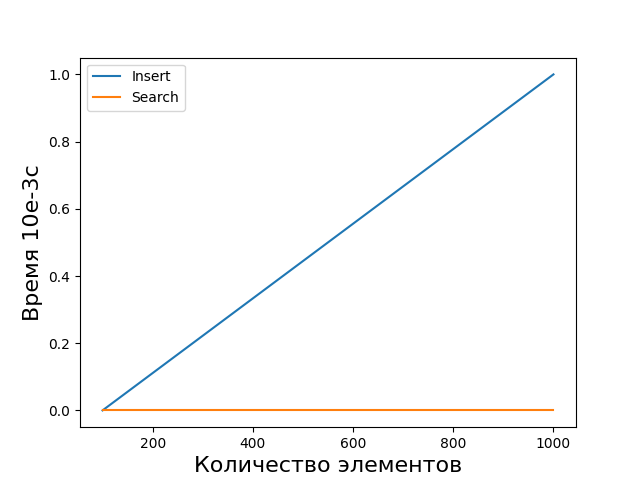
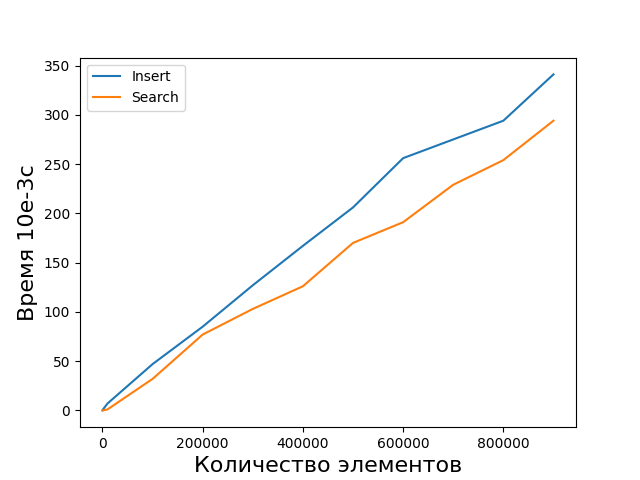
[LockFreeSkipList] Lock-Free write implemented

diff --git a/PrimaEst/Storage/Skiplist/LockFreeSkipList.c b/PrimaEst/Storage/Skiplist/LockFreeSkipList.c
@@ -7,17 +7,17 @@
 
 #include "../../global.h"
 
-/**
- * Создать узел списка с пропусками
- * @param[in] dwHeight	Высота
- * @param[in] pKey		Ключ
- * @param[in] pValue	Значение
- * @return				Узел
- */
+ /**
+  * Создать узел списка с пропусками
+  * @param[in] dwHeight	Высота
+  * @param[in] pKey		Ключ
+  * @param[in] pValue	Значение
+  * @return				Узел
+  */
 PSLockFreeSkipListNode
 CreateLockFreeSkipListNode(
 	DWORD		dwHeight,
-	LONG64		pKey,
+	PVOID		pKey,
 	PVOID	    pValue
 );
 
@@ -106,7 +106,7 @@ LockFreeSkipListSet(
 	PVOID				pValue
 )
 {
-	DWORD dwRndHeight = RandomHeight1();
+	DWORD dwRndHeight = RandomHeight();
 
 	PSLockFreeSkipListNode psPredecessors[SKIP_LIST_MAX_HEIGHT];
 	PSLockFreeSkipListNode psSuccessors[SKIP_LIST_MAX_HEIGHT];
@@ -132,10 +132,10 @@ LockFreeSkipListSet(
 			psNode->pNext[dwLevel] = *psSuccessors;
 		}
 
-		if (!InterlockedCompareExchangePointer(
+		if (InterlockedCompareExchangePointer(
 			&(*psPredecessors)->pNext[0],
 			psNode, *psSuccessors
-		))
+		) != *psSuccessors)
 		{
 			free(psNode);
 			continue;
@@ -145,17 +145,17 @@ LockFreeSkipListSet(
 		{
 			while (TRUE)
 			{
-				PSLockFreeSkipListNode psSuccesseor = psSuccessors[dwLevel];
+				PSLockFreeSkipListNode psSuccessor = psSuccessors[dwLevel];
 				PSLockFreeSkipListNode psPredecessor = psPredecessors[dwLevel];
 
-				if (psSuccesseor != psNode->pNext[dwLevel])
+				if (psSuccessor != psNode->pNext[dwLevel])
 				{
-					PSLockFreeSkipListNode psCurrentSuccesseor = psNode->pNext[dwLevel];
+					PSLockFreeSkipListNode psCurrentSuccessor = psNode->pNext[dwLevel];
 
-					if (!InterlockedCompareExchangePointer(
+					if (InterlockedCompareExchangePointer(
 						&psNode->pNext[dwLevel],
-						psSuccesseor, psCurrentSuccesseor
-						))
+						psSuccessor, psCurrentSuccessor
+						) != psCurrentSuccessor)
 					{
 						continue;
 					}
@@ -163,8 +163,8 @@ LockFreeSkipListSet(
 
 				if (InterlockedCompareExchangePointer(
 					&psPredecessor->pNext[dwLevel],
-					psNode, psSuccessors
-					))
+					psNode, psSuccessor
+					) == psSuccessor)
 				{
 					break;
 				}
@@ -186,14 +186,14 @@ LockFreeSkipListSet(
  * @param[in] pKey		Ключ
  * @return Найденный узел
  */
-PSLockFreeSkipListNode
+BOOL
 LockFreeSkipListFind(
 	PSLockFreeSkipList	psSkipList,
 	PVOID				pKey
 )
 {
-	PSLockFreeSkipListNode psNode = psSkipList->psHead;
 	DWORD dwHeight = SKIP_LIST_MAX_HEIGHT - 1;
+	PSLockFreeSkipListNode psNode = psSkipList->psHead;
 
 	while (TRUE)
 	{
@@ -211,15 +211,14 @@ LockFreeSkipListFind(
 		{
 			if (dwHeight == 0)
 			{
-				return !nCompare ?
-					psNextNode : NULL;
+				return !nCompare ? TRUE : FALSE;
 			}
 
 			dwHeight--;
 		}
 	}
 
-	return NULL;
+	return FALSE;
 }
 
 /**
@@ -270,7 +269,7 @@ CreateLockFreeSkipListNode(
 	PVOID	    pValue)
 {
 	DWORD dwSize = sizeof(SLockFreeSkipListNode) + 
-		(dwHeight - 1) * sizeof(PSLockFreeSkipListNode);
+		(dwHeight) * sizeof(PSLockFreeSkipListNode);
 	PSLockFreeSkipListNode psSkipListNode = (PSLockFreeSkipListNode)malloc(dwSize);
 	if (psSkipListNode == NULL)
 	{
@@ -340,4 +339,26 @@ InternalLockFreeSkipListFind(
 	*psFoundNode = psCurrentNode;
 
 	return pCurrentKey == pKey;
+}
+
+/**
+ * Вывод списка
+ * @param[in] psSkipList Экземпляр списка
+ */
+VOID
+LockFreeSkipListPrint(
+	PSLockFreeSkipList	psSkipList
+)
+{
+	for (INT dwHeight = SKIP_LIST_MAX_HEIGHT - 1; dwHeight >= 0; dwHeight--)
+	{
+		PSLockFreeSkipListNode psNode = psSkipList->psHead;
+		while (psNode != psSkipList->psTail)
+		{
+			printf("%lld ", (LONG64)psNode->pKey);
+
+			psNode = psNode->pNext[dwHeight];
+		}
+		printf("\n");
+	}
 }

diff --git a/PrimaEst/Storage/Skiplist/LockFreeSkipList.h b/PrimaEst/Storage/Skiplist/LockFreeSkipList.h
@@ -25,7 +25,7 @@ typedef struct _SLockFreeSkipListNode
 	DWORD				dwHeight;
 
 	/** Список узлов */
-	struct _SLockFreeSkipListNode* pNext[1];
+	struct _SLockFreeSkipListNode* pNext[];
 } SLockFreeSkipListNode, * PSLockFreeSkipListNode;
 
 /**
@@ -84,9 +84,9 @@ LockFreeSkipListSet(
  * Найти ключ в списке
  * @param[in] psSkipList	Экземпляр списка
  * @param[in] pKey		Ключ
- * @return Найденный узел
+ * @return Есть ли элемент по ключу ?
  */
-PSLockFreeSkipListNode
+BOOL
 LockFreeSkipListFind(
 	PSLockFreeSkipList	psSkipList,
 	PVOID				pKey
@@ -101,6 +101,7 @@ LockFreeSkipListClear(
 	PSLockFreeSkipList	psSkipList
 );
 
+
 /**
  * Освободить все ресурсы занятые структурой
  * @param[in] psSkipList Экземпляр списка
@@ -111,5 +112,13 @@ LockFreeSkipListClose(
 );
 
 
+/**
+ * Вывод списка
+ * @param[in] psSkipList Экземпляр списка
+ */
+VOID
+LockFreeSkipListPrint(
+	PSLockFreeSkipList	psSkipList
+);
 
 #endif

diff --git a/PrimaEst/Test/LockFreeSkipListTest.c b/PrimaEst/Test/LockFreeSkipListTest.c
@@ -42,14 +42,13 @@ LockFreeSkipListAddTest()
 	
 	assert(psLockFree != NULL);
 
-	for (int i = 1; i <= 10; i++)
+	for (int i = 1; i <= 100; i++)
 	{
 		LockFreeSkipListSet(psLockFree, (void*)i, (void*)i);
 	}
 	
 	PSLockFreeSkipListNode psCurr = psLockFree->psHead->pNext[0];
-	PSLockFreeSkipListNode psNext;
-	for (int i = 1; i <= 10; i++)
+	for (int i = 1; i <= 100; i++)
 	{
 		assert((int)psCurr->pKey == i);
 		psCurr = psCurr->pNext[0];
@@ -137,8 +136,6 @@ MultiThreadFindRoutine(
 			nTotalMisses += nCurrentMisses;
 		}
 	}
-
-	printf("%d\n", nTotalMisses);
 
 	return 0;
 }

diff --git a/PrimaEst/Benchmarks/SkipList/SetMultiThread.py b/PrimaEst/Benchmarks/SkipList/SetMultiThread.py
@@ -30,8 +30,8 @@ findlockfreeselection = dataset[len(dataset) // 2:]
 fig, ax = plt.subplots()
 plt.xlabel("Количество потоков", fontsize=16)
 plt.ylabel("Время 10e-3с", fontsize=16)
-ax.plot(selection, findselection, label="Implementation 1")
-ax.plot(selection, findlockfreeselection, label="Implementation 2")
+ax.plot(selection, findselection, label="Lock Set")
+ax.plot(selection, findlockfreeselection, label="Lock-Free Set")
 ax.legend()
 
 fig.savefig("./SetMultiThread")

diff --git a/PrimaEst/Benchmarks/SkipList/FindMultiThread.py b/PrimaEst/Benchmarks/SkipList/FindMultiThread.py
@@ -30,8 +30,8 @@ findlockfreeselection = dataset[len(dataset) // 2:]
 fig, ax = plt.subplots()
 plt.xlabel("Количество потоков", fontsize=16)
 plt.ylabel("Время 10e-3с", fontsize=16)
-ax.plot(selection, findselection, label="Lock read")
-ax.plot(selection, findlockfreeselection, label="Lock-Free read")
+ax.plot(selection, findselection, label="Lock Read")
+ax.plot(selection, findlockfreeselection, label="Lock-Free Read")
 ax.legend()
 
 fig.savefig("./FindMultiThread")

diff --git a/PrimaEst/Utils/Random.h b/PrimaEst/Utils/Random.h
@@ -28,24 +28,4 @@ LehmerRandom()
 	return dwSeed;
 }
 
-static
-DWORD
-LehmerRandom1()
-{
-	static DWORD dwSeed = 0xDEADBEEF;
-
-	static const DWORD dwMod = 2147483647L;
-	static const unsigned __int64 uiFactor = 16807;
-
-	unsigned __int64 uiProduct = dwSeed * uiFactor;
-
-	dwSeed = (DWORD)((uiProduct >> 31) + (uiProduct & dwMod));
-	if (dwSeed > dwMod)
-	{
-		dwSeed -= dwMod;
-	}
-
-	return dwSeed;
-}
-
 #endif // RANDOM_H

diff --git a/PrimaEst/Test/SkipListTest.c b/PrimaEst/Test/SkipListTest.c
@@ -159,8 +159,6 @@ SkipListRemoveTest()
 		SkipListSet(psSkipList, (void*)i, (void*)i);
 	}
 
-	SkipListPrint(psSkipList, TestSkipListPrinter);
-
 	for (size_t i = 2; i <= nCount; i+= 5)
 	{
 		SkipListRemove(psSkipList, (void*)i);
@@ -201,8 +199,6 @@ SkipListPrintTest()
 
 		assert((size_t)psSkipListNode->pKey == dwIdx++);
 	}
-
-	SkipListPrint(psSkipList, TestSkipListPrinter);
 
 	SkipListClose(psSkipList);
 }

diff --git a/PrimaEst/Benchmarks/SkipList/SkipListSelection.c b/PrimaEst/Benchmarks/SkipList/SkipListSelection.c
@@ -15,7 +15,17 @@
 static int nSelectionCount[] =
 {
 	100,
-	1000
+	1000,
+	10000,
+	100000,
+	200000,
+	300000,
+	400000,
+	500000,
+	600000,
+	700000,
+	800000,
+	900000
 };
 
 static
@@ -358,7 +368,7 @@ LockFreeSkipListSelection()
 
 
 #define SKIP_LIST_BENCHMARK_THREAD_COUNT	63
-#define SKIP_LIST_BENCHMARK_BOUND			10e3
+#define SKIP_LIST_BENCHMARK_BOUND			10e5
 
 typedef struct _SBenchmarkSkipListArg
 {

diff --git a/PrimaEst/tests.c b/PrimaEst/tests.c
@@ -34,11 +34,11 @@ int main()
 	LockFreeSkipListMultiThreadAddAndFind();
 	LockFreeSkipListResetTest();
 
-	//SkipListAddTest();
-	//SkipListSetTest();
-	//SkipListFindTest();
-	//SkipListPrintTest();
-	//SkipListRemoveTest();
+	SkipListAddTest();
+	SkipListSetTest();
+	SkipListFindTest();
+	SkipListPrintTest();
+	SkipListRemoveTest();
 
 	//LogEnumFnvTest();
 	//ParseLogTest_1();

diff --git a/PrimaEst/Storage/Skiplist/SkipListDefinitions.h b/PrimaEst/Storage/Skiplist/SkipListDefinitions.h
@@ -73,21 +73,4 @@ RandomHeight()
 	return dwHeight;
 }
 
-static
-DWORD
-RandomHeight1()
-{
-	DWORD dwRandom = LehmerRandom1();
-	DWORD dwBranching = 4;
-	DWORD dwHeight = 1;
-
-	while (dwHeight < SKIP_LIST_MAX_HEIGHT &&
-		LehmerRandom() % dwBranching == 0)
-	{
-		dwHeight++;
-	}
-
-	return dwHeight;
-}
-
 #endif

diff --git a/PrimaEst/Benchmarks/SkipList/LockFreeSkipListPlot.py b/PrimaEst/Benchmarks/SkipList/LockFreeSkipListPlot.py
@@ -12,7 +12,17 @@ from scipy.interpolate import interp1d
 
 selection = [
 	100,
-	1000
+	1000,
+	10000,
+	100000,
+	200000,
+	300000,
+	400000,
+	500000,
+	600000,
+	700000,
+	800000,
+	900000
 ]
 
 with open("LockFreeSkipListSelection.bin", mode='rb') as file:

diff --git a/PrimaEst/Benchmarks/SkipList/SkipListPlot.py b/PrimaEst/Benchmarks/SkipList/SkipListPlot.py
@@ -12,7 +12,17 @@ from scipy.interpolate import interp1d
 
 selection = [
 	100,
-	1000
+	1000,
+	10000,
+	100000,
+	200000,
+	300000,
+	400000,
+	500000,
+	600000,
+	700000,
+	800000,
+	900000
 ]
 
 with open("SkipListSelection.bin", mode='rb') as file:
